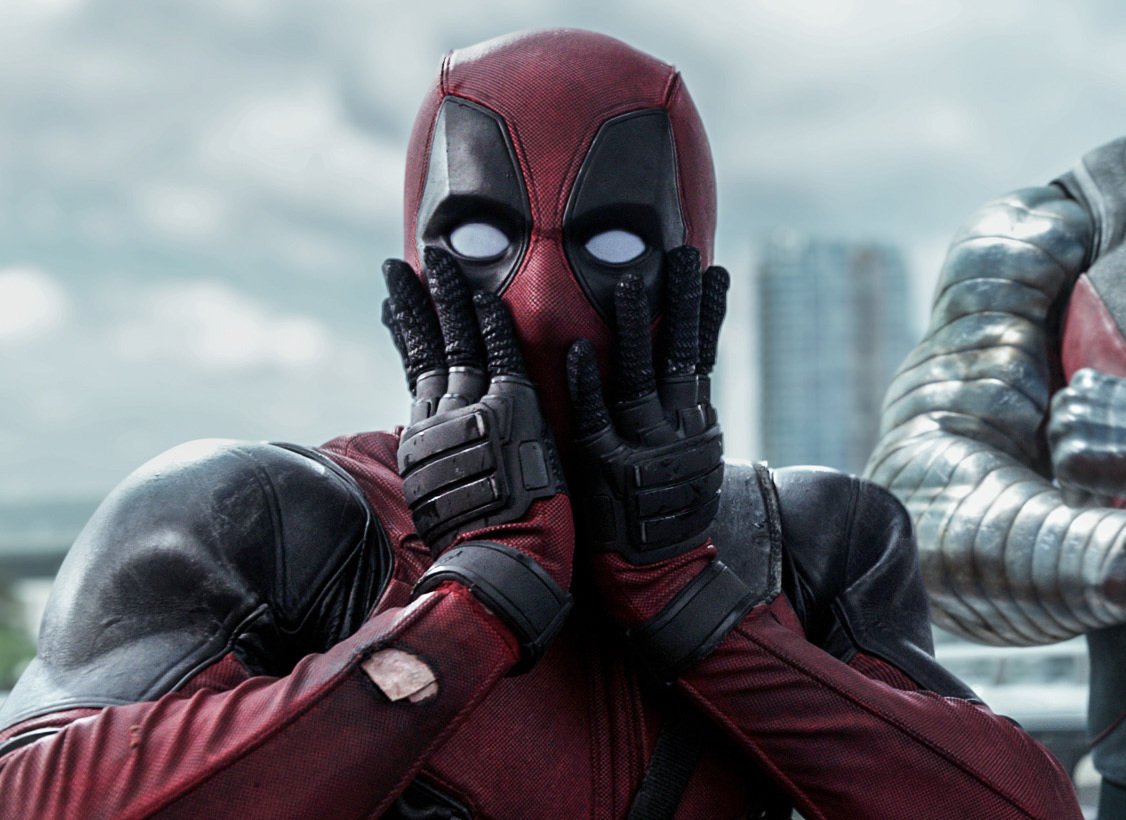
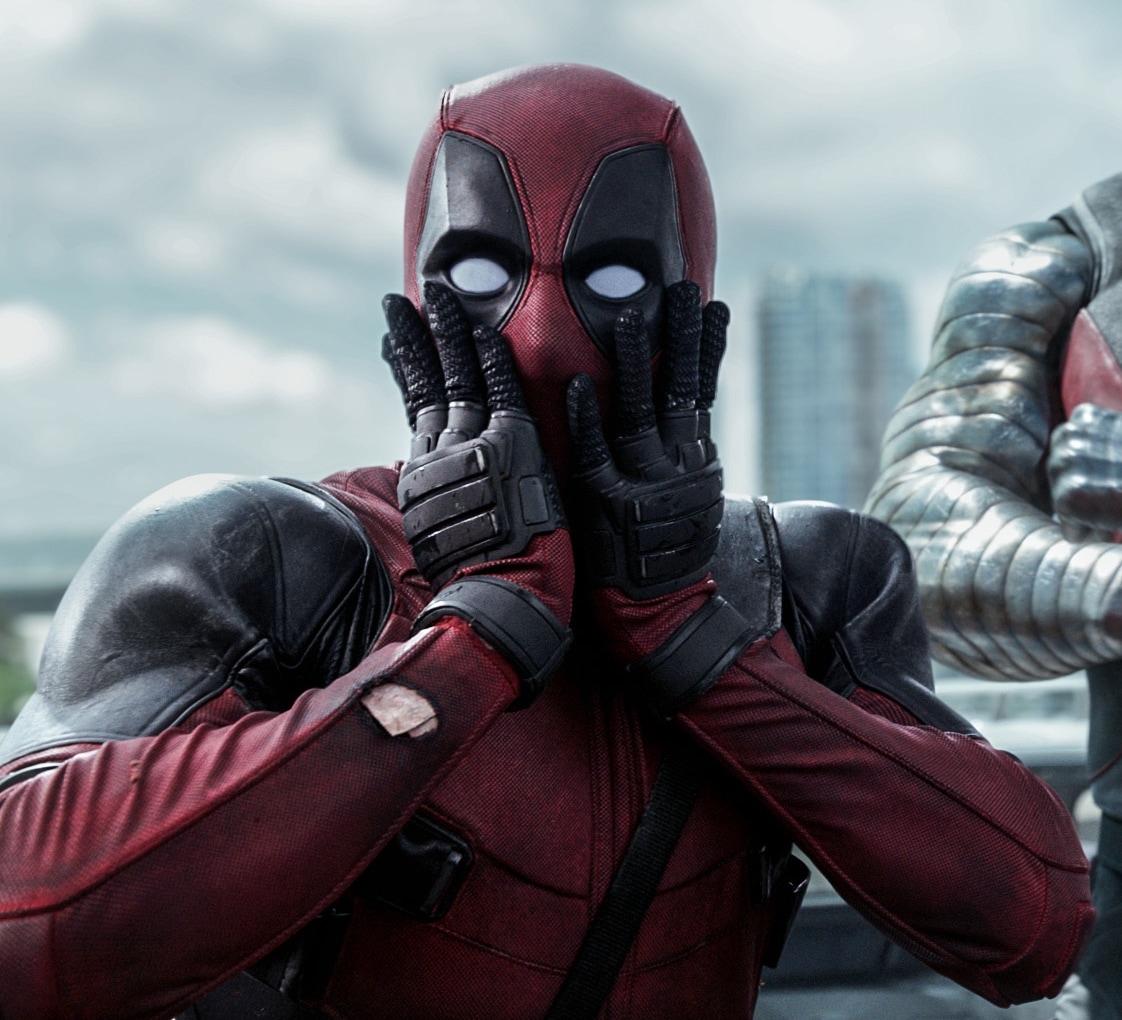
Fixes

diff --git a/PITCHME.md b/PITCHME.md
@@ -239,17 +239,11 @@ Where do you look for bugs?
 ---
 # Immutability is the new @color[mediumaquamarine](black)
 +++
-@snap[west span-50]
-<div>
+@quote[Forget math class! This is allowed in programming!]
 ```python
 x = 5
 x = x + 2
 ```
-</div>
-@snapend
-@snap[east span-50]
-@quote[Forget math class! This is allowed in programming!]
-@snapend
 +++
 ### In FP it is @color[red](illegal)!
 +++
@@ -260,8 +254,8 @@ Luckly, "variables" are short living because they exist only inside functions.
 #### And functions are small, right?
 +++
 ### So...
-+++?image=assets/deadpool.jpg&size=cover
-@snap[north]
++++?image=assets/deadpool.jpg&position=left&size=65% 100%
+@snap[east]
 @quote[How the hell am I supposed to do anything without vars?!?!]
 @snapend
 +++
